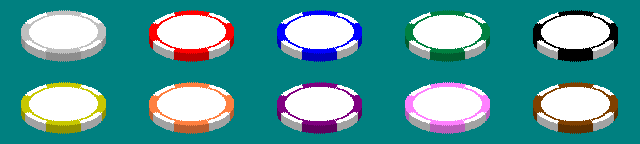
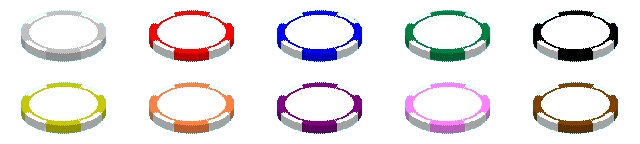
poker chip and stack of poker chip development on client side.

diff --git a/client/src/com/ninetyninepercentcasino/screens/BJScreen.java b/client/src/com/ninetyninepercentcasino/screens/BJScreen.java
@@ -12,8 +12,13 @@ import com.badlogic.gdx.utils.viewport.ExtendViewport;
 import com.ninetyninepercentcasino.MainCasino;
 import com.ninetyninepercentcasino.bj.bjbuttons.HitButton;
 import com.ninetyninepercentcasino.bj.bjbuttons.StandButton;
+import com.ninetyninepercentcasino.game.gameparts.Chip;
 import com.ninetyninepercentcasino.gameparts.CardGroup;
+import com.ninetyninepercentcasino.bj.BJClient;
+import com.ninetyninepercentcasino.gameparts.ChipActor;
+import com.ninetyninepercentcasino.gameparts.ChipStack;
 import com.ninetyninepercentcasino.net.Connection;
+import com.ninetyninepercentcasino.net.NetMessage;
 
 import java.io.IOException;
 import java.net.Socket;
@@ -25,6 +30,7 @@ import java.net.Socket;
 public class BJScreen extends CasinoScreen {
     private Texture background;
     private boolean firstRender;
+    private BJClient client;
 
     public BJScreen(MainCasino game) {
         super(game);
@@ -54,6 +60,13 @@ public class BJScreen extends CasinoScreen {
         bottomUI.setPosition(WORLD_WIDTH / 2, WORLD_HEIGHT / 3.5f);
         bottomUI.add(blackjackButtons).padRight(WORLD_WIDTH / 16).padLeft(WORLD_WIDTH / 16).top().padBottom(230);
 
+        ChipStack chips = new ChipStack();
+        chips.addChip(new ChipActor(new Chip(1)));
+        chips.addChip(new ChipActor(new Chip(5)));
+        chips.addChip(new ChipActor(new Chip(10)));
+        chips.debug();
+
+        stage.addActor(chips);
         stage.addActor(bottomUI);
         stage.addActor(playerHand);
         stage.addActor(dealerHand);
@@ -69,13 +82,17 @@ public class BJScreen extends CasinoScreen {
             }
         });
 
-        Connection client;
-        try {
-            client = new Connection(new Socket("127.0.0.1", 9925));
-        } catch (IOException e) {
-            throw new RuntimeException(e);
-        }
-        client.start();
+//        try {
+//            client = new BJClient(new Socket("127.0.0.1", 9925));
+//        } catch (IOException e) {
+//            throw new RuntimeException(e);
+//        }
+//        client.start();
+//        try {
+//            client.message(new NetMessage(NetMessage.MessageType.INFO, "begin game."));
+//        } catch (IOException e) {
+//            throw new RuntimeException(e);
+//        }
 
 
     }

diff --git a/client/src/com/ninetyninepercentcasino/gameparts/ChipActor.java b/client/src/com/ninetyninepercentcasino/gameparts/ChipActor.java
@@ -1,12 +1,48 @@
 package com.ninetyninepercentcasino.gameparts;
 
+import com.badlogic.gdx.graphics.Texture;
+import com.badlogic.gdx.graphics.g2d.Batch;
+import com.badlogic.gdx.graphics.g2d.Sprite;
 import com.badlogic.gdx.graphics.g2d.TextureRegion;
 import com.badlogic.gdx.scenes.scene2d.Actor;
 import com.ninetyninepercentcasino.game.gameparts.Chip;
 
 public class ChipActor extends Actor {
     private Chip chip;
+    private Sprite sprite;
+
     public ChipActor(Chip chip){
         this.chip = chip;
+        sprite = new Sprite(findTexture());
+        sprite.setSize(192, 192 * ((float) 72/64));
+        setBounds(getX(), getY(), sprite.getWidth(), sprite.getHeight());
+        sprite.setPosition(getX(), getY());
+    }
+    public void draw(Batch batch, float parentAlpha){
+        sprite.setPosition(getX(), getY());
+        sprite.draw(batch);
+        System.out.println("drawing.");
+    }
+    private TextureRegion findTexture(){
+        Texture chips = new Texture("GameAssets/Isometric/Chips/ChipsA_Outline_Flat_Small-128x72.png");
+        int x = 0;
+        int y = 0;
+        double chipValue = chip.getValue();
+        if(chipValue <= 1) {
+            x = 0;
+        }
+        else if(chipValue <= 5){
+            x = 128;
+        }
+        else if(chipValue <= 10){
+            x = 128*2;
+        }
+        else if(chipValue <= 25){
+            x = 128*3;
+        }
+        else if(chipValue <= 100){
+            x = 128*4;
+        }
+        return new TextureRegion(chips, x, y, 128, 72);
     }
 }

diff --git a/client/src/com/ninetyninepercentcasino/gameparts/ChipStack.java b/client/src/com/ninetyninepercentcasino/gameparts/ChipStack.java
@@ -1,0 +1,15 @@
+package com.ninetyninepercentcasino.gameparts;
+
+import com.badlogic.gdx.scenes.scene2d.ui.VerticalGroup;
+
+import java.util.Stack;
+
+public class ChipStack extends VerticalGroup {
+    public ChipStack(){
+    }
+    public void addChip(ChipActor chip){
+        this.addActor(chip);
+        invalidateHierarchy();
+    }
+
+}

diff --git a/core/src/com/ninetyninepercentcasino/game/gameparts/Player.java b/core/src/com/ninetyninepercentcasino/game/gameparts/Player.java
@@ -1,4 +1,4 @@
-package com.ninetyninepercentcasino.game;
+package com.ninetyninepercentcasino.game.gameparts;
 
 /**
  * Models a player of a game
